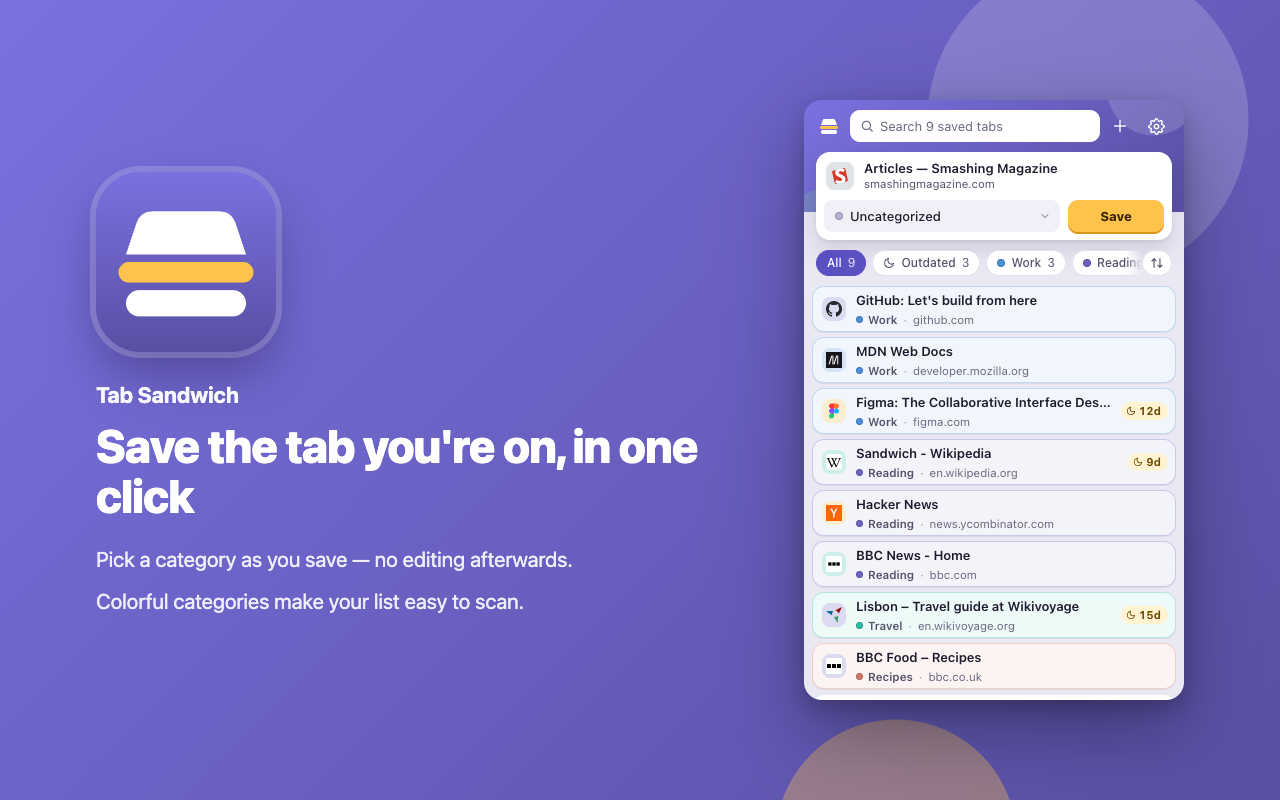
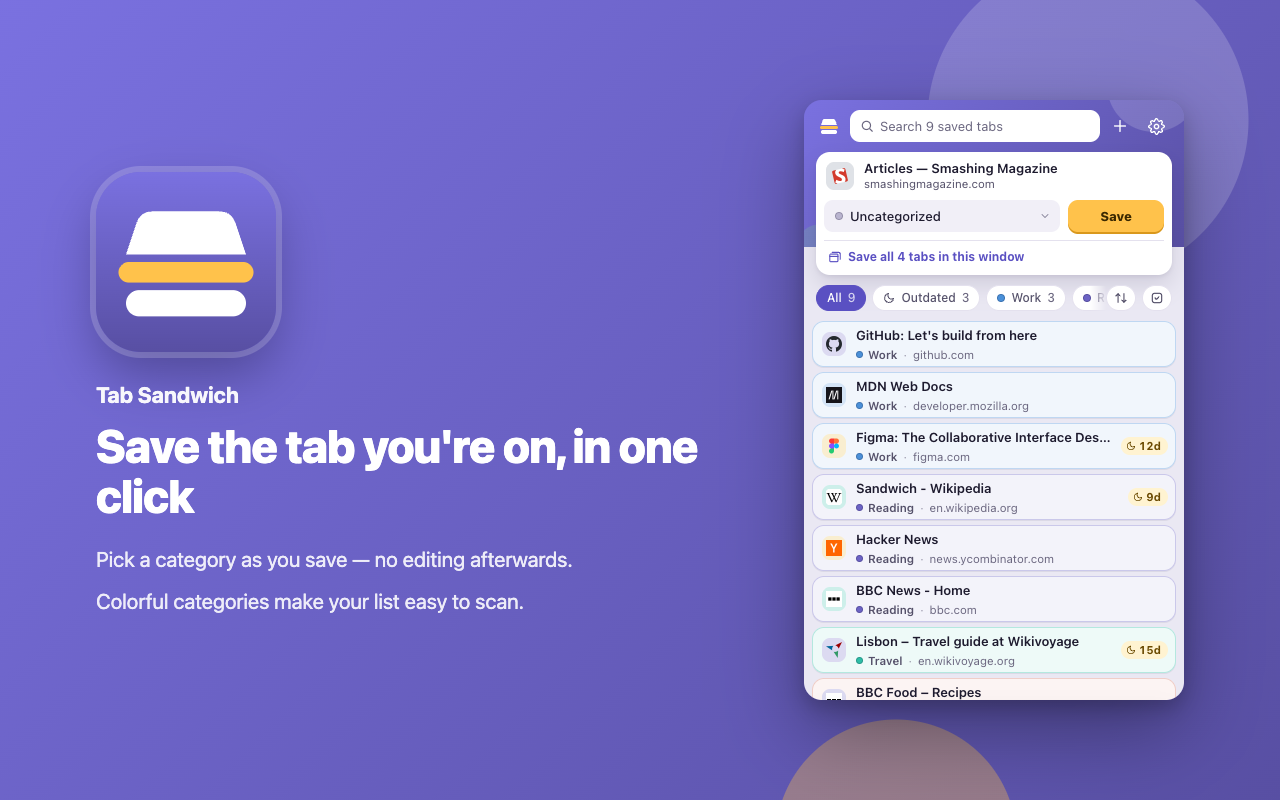
v3.2 stage 5: release 3.2.0
Version 3.2.0. "What's new" note for 3.2 (save a whole window, saved
windows, select many). Manifest summary mentions whole windows.
Chrome Web Store screenshots re-rendered: a new one for saving a whole
window replaces the categories one (renamed 2-5). PUBLISHING: new
summary, "New in 3.2" paragraph, screenshot list, update steps (incl.
adding the optional tabs permission's justification). Release pass in
TESTING lists the real-Chrome checks (TC-233, TC-245). The accessibility
and first-run tests no longer hard-code the release number; what's-new
pictures re-approved (title and note length).

Changed region(s): [[0.625, 0.25, 0.9375, 0.875]]

diff --git a/tests/store/store-assets.spec.ts b/tests/store/store-assets.spec.ts
@@ -2,7 +2,7 @@ import { readFileSync } from "node:fs";
 import type { Page } from "@playwright/test";
 import { test } from "../e2e/fixtures";
 import { expect } from "../e2e/fixtures";
-import { openSettings, seedLibrary } from "../e2e/helpers";
+import { answerPermissionPrompt, openSettings, seedLibrary } from "../e2e/helpers";
 
 const OUT = "store-assets";
 
@@ -57,11 +57,20 @@ async function compose(page: Page, file: string, popupPng: Buffer, headline: str
 /** The page the save card shows: a real article, opened as the active tab in the popup's window. */
 const CURRENT_PAGE = "https://www.smashingmagazine.com/articles/";
 
+/** A window of open tabs, for "save the whole window" (the article above is the one you're on). */
+const WINDOW_PAGES = [
+    "https://vite.dev/",
+    "https://preactjs.com/",
+    "https://playwright.dev/",
+    "https://www.typescriptlang.org/",
+    "https://developer.chrome.com/docs/extensions",
+];
+
 test("Chrome Web Store screenshots", async ({ context, popup }) => {
     test.skip(!process.env.TS_STORE_SCREENSHOTS, "Run through `pnpm store:screenshots`.");
     // Visit each sample site once, so Chrome's own icon cache has its icon (as it would for a real user).
     const visitor = await context.newPage();
-    for (const { url } of [...LIBRARY, { url: CURRENT_PAGE }]) {
+    for (const { url } of [...LIBRARY, { url: CURRENT_PAGE }, ...WINDOW_PAGES.map((url) => ({ url }))]) {
         await visitor.goto(url, { waitUntil: "load", timeout: 30_000 }).catch(() => undefined);
         await visitor.waitForTimeout(800);
     }
@@ -87,19 +96,41 @@ test("Chrome Web Store screenshots", async ({ context, popup }) => {
         "Colorful categories make your list easy to scan."
     ], "light", true);
 
-    await compose(canvas, "screenshot-2-dark-mode.png", await shot("dark", async () => {}), "Easy on the eyes, day or night", [
+    // A window full of tabs, saved in one click (Chrome's permission prompt answered "Allow"),
+    // then opened as a saved window, with "Close N tabs" on offer.
+    await compose(canvas, "screenshot-2-whole-window.png", await shot("light", async () => {
+        for (const url of WINDOW_PAGES) {
+            const opened = context.waitForEvent("page");
+            await popup.evaluate((u) => chrome.tabs.create({ url: u, active: false }), url);
+            await (await opened).waitForLoadState("load").catch(() => undefined);
+        }
+        await answerPermissionPrompt(context, popup, "grant");
+        await popup.mouse.move(0, 599);
+        await popup.getByRole("button", { name: /^Save all \d+ tabs in this window$/ }).click();
+        await expect(popup.getByRole("status").filter({ hasText: /^Saved \d+ tabs/ })).toBeVisible();
+        await popup.locator("button[data-group-name]").first().click();
+        await popup.mouse.move(0, 599);
+        await popup.waitForTimeout(2200);
+    }), "Forty tabs open? Save them all at once", [
+        "One click saves the whole window, skipping what's already saved.",
+        "It stays together in your list. Close the tabs, or keep them open."
+    ], "light");
+    // Close that window's tabs again, so the later shots show the usual window.
+    await popup.evaluate(async (urls) => {
+        const open = await chrome.tabs.query({});
+        await chrome.tabs.remove(open.filter((tab) => urls.some((u) => (tab.url ?? tab.pendingUrl ?? "").startsWith(u))).map((tab) => tab.id!));
+    }, WINDOW_PAGES);
+    // And forget the permission again (the stand-in for Chrome's prompt keeps it in the page).
+    await popup.evaluate(() => localStorage.removeItem("test.tabsPermission"));
+
+    await compose(canvas, "screenshot-3-dark-mode.png", await shot("dark", async () => {}), "Easy on the eyes, day or night", [
         "Follows your computer's light or dark mode,",
         "or pick one in Settings."
     ], "dark");
 
-    await compose(canvas, "screenshot-3-search.png", await shot("light", async () => {
+    await compose(canvas, "screenshot-4-search.png", await shot("light", async () => {
         await popup.getByRole("textbox", { name: "Search saved tabs" }).fill("news");
-    }), "Find any saved tab in a keystroke", ["Search matches titles and sites as you type.", "Sort by newest, title or site, and never touch the mouse."], "light");
-
-    await compose(canvas, "screenshot-4-categories.png", await shot("light", async () => {
-        await openSettings(popup, "Categories");
-        await popup.getByRole("button", { name: "Color for Reading" }).click();
-    }), "Organize your way", ["Add, rename, reorder and recolor categories.", "Settings stay calm and simple."], "light");
+    }), "Find any saved tab in a keystroke", ["Search matches titles and sites as you type.", "Sort, select many, and never touch the mouse."], "light");
 
     await compose(canvas, "screenshot-5-private.png", await shot("dark", async () => {
         await openSettings(popup, "About");

diff --git a/tests/e2e/first-run.spec.ts b/tests/e2e/first-run.spec.ts
@@ -1,7 +1,7 @@
 import { test, expect } from "./fixtures";
 import { seedLibrary, tabList } from "./helpers";
 
-const whatsNew = (popup: import("@playwright/test").Page) => popup.getByRole("region", { name: "New in 3.1" });
+const whatsNew = (popup: import("@playwright/test").Page) => popup.getByRole("region", { name: "New in 3.2" });
 const lastSeen = (popup: import("@playwright/test").Page) =>
     popup.evaluate(async () => (await chrome.storage.local.get("tabSandwich.lastSeenVersion"))["tabSandwich.lastSeenVersion"]);
 const version = (popup: import("@playwright/test").Page) => popup.evaluate(() => chrome.runtime.getManifest().version);

diff --git a/src/ui/strings.ts b/src/ui/strings.ts
@@ -98,6 +98,11 @@ export const strings = {
     whatsNewTitle: (release: string) => `New in ${release}`,
     dismissWhatsNew: "Dismiss what's new",
     whatsNewNotes: {
+        "3.2": [
+            "Save every tab in a window at once, then close them in one click.",
+            "A saved window stays together as one row, named like “Toasted Rye”.",
+            "Select several tabs to move or delete them together.",
+        ],
         "3.1": [
             "Sort your list by newest, oldest, title or site.",
             "A page you've already saved says so, with Show and Update.",

diff --git a/tests/e2e/accessibility.spec.ts b/tests/e2e/accessibility.spec.ts
@@ -52,7 +52,7 @@ for (const colorScheme of ["light", "dark"] as const) {
 
         test("what's new showing", async ({ popup }) => {
             await seedLibrary(popup, [{ title: "Q3 Roadmap", url: "https://notion.so/q3", category: "Work" }], {}, { seenVersion: "3.0.0" });
-            await expect(popup.getByRole("region", { name: "New in 3.1" })).toBeVisible();
+            await expect(popup.getByRole("region", { name: /^New in / })).toBeVisible();
             expect(await scan(popup)).toEqual([]);
         });
 

diff --git a/PUBLISHING.md b/PUBLISHING.md
@@ -34,7 +34,7 @@ Then zip the *contents* of `dist/` (so `manifest.json` sits at the root of the z
 
 **Summary** (132 char max — the Dashboard shows this as "Summary from package," pulled automatically from `manifest.json`'s `description` field — this is 127 chars, nothing to type in manually):
 ```
-Save tabs in one click, organize with color-coded categories, and spot outdated ones. 100% local — nothing leaves your browser.
+Save a tab or a whole window in one click, organize with color-coded categories. 100% local — nothing leaves your browser.
 ```
 
 **Detailed description:**
@@ -68,8 +68,8 @@ Export everything to a file and import it later. Every action works from the key
 YOUR DATA STAYS YOURS
 Tab Sandwich stores everything locally on your device using Chrome's own storage APIs. Nothing is ever sent to a server, tracked, or shared — there is no server. The extension requests only the permissions it actually uses: access to your current tab (only when you click the extension), local storage, and read-only access to Chrome's own local favicon cache to show each saved tab's icon (no favicon data is stored, and nothing is ever fetched from the tab's own site). Saving a whole window needs permission to see your open tabs; Chrome asks only when you first use it, and everything else works if you say no.
 
-NEW IN 3.1
-Sort your list by newest, oldest, title or site. Pages you've already saved say so, with one click to find or update them. Everything works from the keyboard. A friendlier first run, a short "What's new" note after updates, and a new icon.
+NEW IN 3.2
+Save every tab in a window at once, skipping what's already saved, then close them in one click. A saved window stays together in your list under a name like "Toasted Rye": open it, rename it, reopen all its tabs, or drag tabs in and out. Select several tabs to move them to a category or delete them in one go.
 ```
 
 ### Screenshots
@@ -77,10 +77,12 @@ Sort your list by newest, oldest, title or site. Pages you've already saved say 
 Upload all five from `store-assets/`, in this order (each exactly 1280×800, as the Store requires). Each shows the popup next to a headline on the brand's purple background; the first (main) one also carries the icon, large (`branding/icon.svg`):
 
 1. `screenshot-1-main-list.png` — "Save the tab you're on, in one click": the main list and save card
-2. `screenshot-2-dark-mode.png` — "Easy on the eyes, day or night": the same list in dark mode
-3. `screenshot-3-search.png` — "Find any saved tab in a keystroke": search with highlighted matches
-4. `screenshot-4-categories.png` — "Organize your way": Settings › Categories with the color strip open
+2. `screenshot-2-whole-window.png` — "Forty tabs open? Save them all at once": a window just saved, open as a saved window, with "Close N tabs" on offer
+3. `screenshot-3-dark-mode.png` — "Easy on the eyes, day or night": the list in dark mode
+4. `screenshot-4-search.png` — "Find any saved tab in a keystroke": search with highlighted matches
 5. `screenshot-5-private.png` — "Your tabs stay in your browser": Settings › About in dark mode
+
+(Since 3.2 the categories screenshot is gone to make room for saving a whole window; the main list still shows categories.)
 
 They're rendered from the built extension, not edited by hand: `pnpm build && pnpm store:screenshots` (on a Mac, with network access — it visits each sample site once so the rows show real site icons). Re-run it whenever the look changes, and check the pictures before uploading: they're public.
 
@@ -130,6 +132,7 @@ Once the listing exists, publishing a new version doesn't repeat Steps 0/2 (acco
 1. Bump `manifest.json`'s `version`.
 2. Tag and push (`git tag -a vX.Y.Z -m "..."`, `git push origin vX.Y.Z`) — CI builds the new zip.
 3. In the Developer Dashboard, open the existing Tab Sandwich item → **Package** tab → upload the new zip.
-4. Update the description/screenshots only if something user-facing actually changed (3.1.0 did: paste the detailed description above, including its "New in 3.1" paragraph, and replace all five screenshots — they show the new icon and the sort button, and About shows the version, so re-render them with `pnpm build && pnpm store:screenshots` after the version bump). The Store has no per-version notes field; the full notes go in the GitHub release.
+4. Update the description/screenshots only if something user-facing actually changed (3.2.0 did: paste the summary and detailed description above, including its "New in 3.2" paragraph, and replace all five screenshots — delete the old ones first, since two were renamed — re-rendered with `pnpm build && pnpm store:screenshots` after the version bump). The Store has no per-version notes field; the full notes go in the GitHub release.
+   - 3.2.0 adds the optional `tabs` permission: in the **Privacy practices** tab, add its justification (Step 3 above). Being optional, it's asked for only when someone first saves a whole window, so updating doesn't disable the extension for existing users.
    - A new icon (3.1.0 has one) normally comes from the uploaded zip. If the **Store listing** tab also has its own 128×128 store icon field, upload `images/icon-128.png` there too, or the listing keeps the old one.
 5. Submit for review again (update reviews are usually faster than the first one).

diff --git a/TESTING.md b/TESTING.md
@@ -25,7 +25,8 @@ Run on the build being released (`dist/`, or the release zip unpacked), about 10
 4. Full keyboard pass (TC-090 – TC-092, TC-095).
 5. Shortcut display and the **Customize** link (TC-070, TC-071).
 6. Glance at every screen in both themes on your own computer (TC-193): the approved screenshots are Linux renders, so fonts on a Mac or Windows PC look slightly different — check nothing is cut off or crowded.
-7. Anything new in this release that isn't marked **[auto]** yet.
+7. Save all tabs in a real window: Chrome's permission prompt, allowed and (on another profile) denied (TC-233); saved windows in real Chrome: open all in a new window, drag tabs in, out and around (TC-245).
+8. Anything new in this release that isn't marked **[auto]** yet.
 
 ## Manual setup
 
